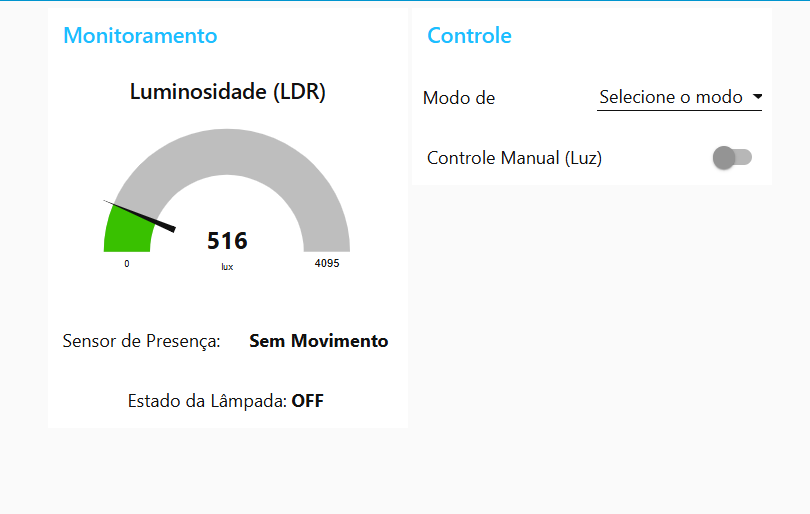
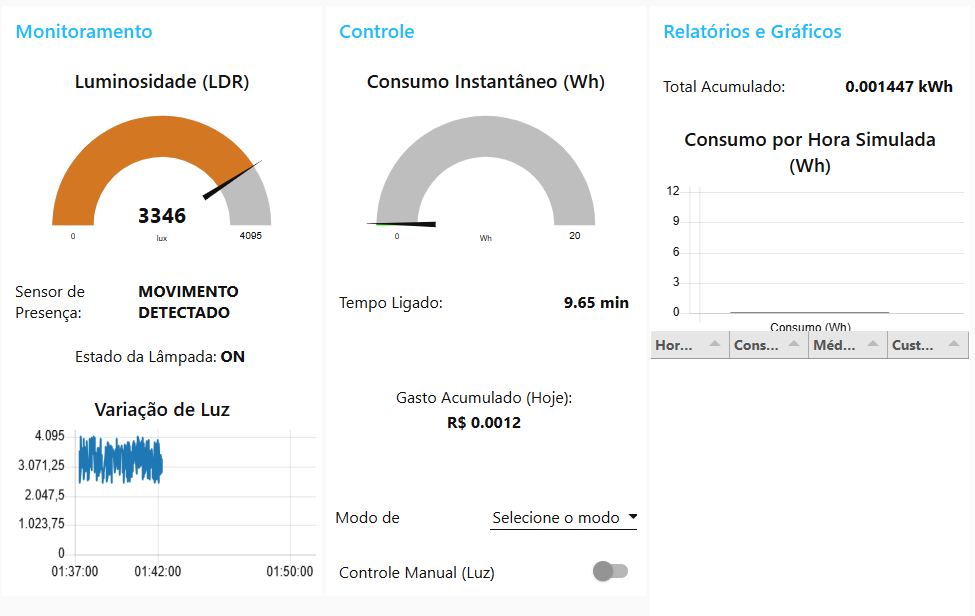
new images add

diff --git a/README.md b/README.md
@@ -1,60 +1,90 @@
-# 🌐 Smart IoT Lighting System - ESP32 & Node-RED
+# 🌐 Smart IoT Lighting System | ESP32 & Node-RED
+
+![Status](https://img.shields.io/badge/Status-Completed-success)
+![Hardware](https://img.shields.io/badge/Hardware-ESP32-blue)
+![Platform](https://img.shields.io/badge/Simulation-Wokwi-orange)
+![Backend](https://img.shields.io/badge/Backend-Node--RED-red)
 
 This repository contains the complete firmware and architectural design for an **IoT Edge Node** developed in **C++**. The system monitors environmental conditions (motion and light) using an **ESP32** and provides a real-time control interface via **Node-RED** and the **MQTT** protocol.
 
+> **Key Feature:** The system runs on a **Time Compression Algorithm** (1:60 scale), where a full 24-hour circadian cycle is simulated in just 24 minutes, allowing for rapid validation of energy consumption profiles.
+
+---
+
 ## 📋 Project Overview
 
-The system is designed to simulate a smart residential lighting solution. It collects telemetry data from a **PIR** sensor (motion) and an **LDR** (luminosity), publishing this information as **JSON** payloads. A remote dashboard built in **Node-RED** processes this data and sends command signals back to the device.
+The system is designed to simulate a smart residential lighting solution with energy efficiency analytics. It collects telemetry data from a **PIR** sensor (motion) and an **LDR** (luminosity), publishing this information as **JSON** payloads.
 
-## 📸 System Demonstration
+**Main Features:**
+* **Stochastic Environment Simulation:** Random generation of day/night cycles and human presence probability based on peak hours.
+* **Energy Analytics:** Real-time calculation of Watt-hours (Wh), accumulated kWh, and financial cost (R$).
+* **Dual Control:** Automatic mode (Sensor-based) and Manual override via Dashboard.
+* **Robust Connectivity:** Reconnection algorithms for unstable network environments.
 
-### 1. Hardware Architecture & States
-The project was simulated using **Wokwi**. Below is a comparison between the initial state and the active state receiving MQTT commands.
+---
 
-| Initial State (Idle) | Active State (LED ON + Logs) |
+## 📸 System Architecture & Wiring
+
+The hardware simulation was designed in **Wokwi**.
+
+| Passive State (Idle) | Active State (Motion + Night) |
 | :---: | :---: |
 | <img src="./img/estrutura_1.png" width="100%"> | <img src="./img/estrutura_2.png" width="100%"> |
-| *Standard wiring setup (LED OFF).* | *System receiving "ON" command via MQTT (Log visible).* |
-
-### 2. Real-Time Monitoring Dashboard
-The Node-RED dashboard provides a clean UI to track sensor values and toggle between manual and automatic control modes.
-
-| High Ambient Light Scenario | Low Ambient Light Scenario |
-| :---: | :---: |
-| <img src="./img/dashboard_1.png" width="100%"> | <img src="./img/dashboard_2.png" width="100%"> |
-| *System at 516 lux (Low Light Mode).* | *System at 3413 lux (Daylight Mode).* |
+| *Standard wiring setup (LED OFF).* | *System detecting motion at night (LED ON).* |
 
 ---
 
-## 🛠 Tech Stack
+## 📊 Real-Time Monitoring Dashboard
 
-* **Language:** C++ (Arduino Framework)
-* **Microcontroller:** ESP32
-* **Communication Protocol:** MQTT (Broker: `broker.hivemq.com`)
-* **Backend & Dashboard:** Node-RED
-* **Data Format:** JSON
-* **Simulation Environment:** Wokwi
+The user interface is built on **Node-RED Dashboard**, offering a clean layout for monitoring sensors, controlling the actuator, and analyzing energy costs.
 
----
-
-## 🔗 Backend Logic (Node-RED)
-
-The logic layer manages the data flow, applying conditional rules (Auto/Manual/Eco modes) before sending commands back to the ESP32.
+### 1. Main Dashboard View
+Full overview of the system operation, including real-time gauges and historical charts.
 
 <div align="center">
-  <img src="./img/node-red_1.png" alt="Node-RED Flow Architecture" width="800px">
+  <img src="./img/dashboard_1.png" alt="Main Dashboard" width="90%">
+</div>
+
+### 2. Environmental Response
+The system intelligently reacts to light levels based on sensor input.
+
+| Low Light (Night) | High Light (Day) |
+| :---: | :---: |
+| <img src="./img/luminosidade_1.png" width="100%"> | <img src="./img/luminosidade_2.png" width="100%"> |
+| *LDR < Setpoint + Motion = **ON*** | *LDR > Setpoint = **OFF** (Energy Saving)* |
+
+### 3. Energy Consumption Analytics
+A dedicated section tracks the financial impact and energy usage throughout the simulated cycle.
+
+<div align="center">
+  <img src="./img/consumo_instantaneo.png" alt="Consumption Analytics" width="400px">
+  <p><i>Real-time accumulation of Wh and projected Cost (R$).</i></p>
 </div>
 
 ---
 
-## 🚀 Getting Started
+## 🛠 Backend Logic (Node-RED)
 
-1.  **Hardware:** Open the `main.cpp` file and upload it to your ESP32 or use the Wokwi simulator.
-2.  **MQTT Config:** * **Telemetry Topic:** `nelson_iot/sensores`
-    * **Command Topic:** `nelson_iot/led_cmd`
-3.  **Dependencies:** Ensure the `PubSubClient` and `WiFi` libraries are installed in your environment.
-4.  **Dashboard:** Import your Node-RED flow and connect it to the same MQTT broker.
+The logic layer manages the data flow, handles the JSON parsing, calculates costs, and applies conditional rules (Auto/Manual/Eco modes).
+
+<div align="center">
+  <img src="./img/node_red.png" alt="Node-RED Flow Architecture" width="100%">
+</div>
 
 ---
 
-**Project Status:** 🚀 Fully Functional.
+## 📡 API & Data Structure
+
+The system communicates via MQTT using JSON formatted payloads.
+
+### Telemetry (ESP32 -> Broker)
+**Topic:** `nelson_iot/consumo`
+```json
+{
+  "consumo_kwh": 0.00145,
+  "consumo_wh": 0.142,
+  "media_dia_wh": 0.056,
+  "total_dia_wh": 1.348,
+  "tempo_ligado_min": 9.65,
+  "led_estado": "ON"
+}
